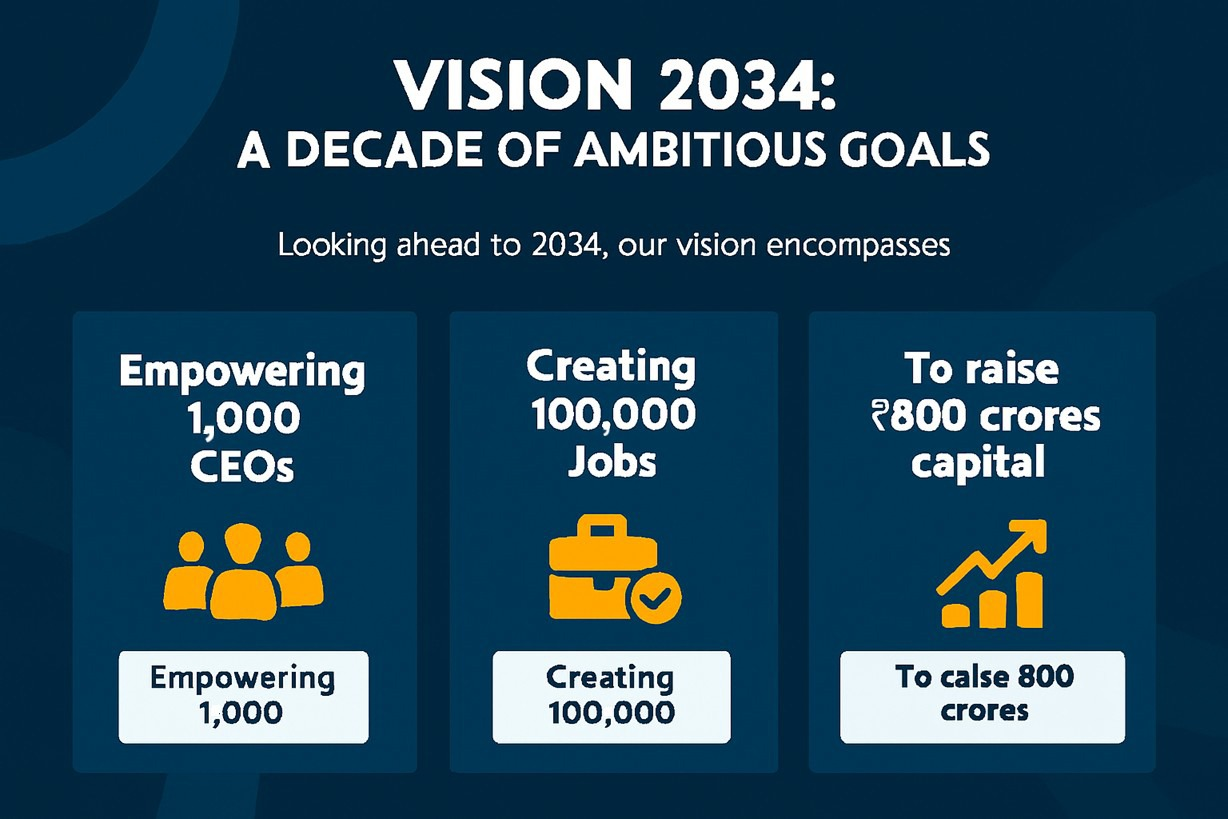
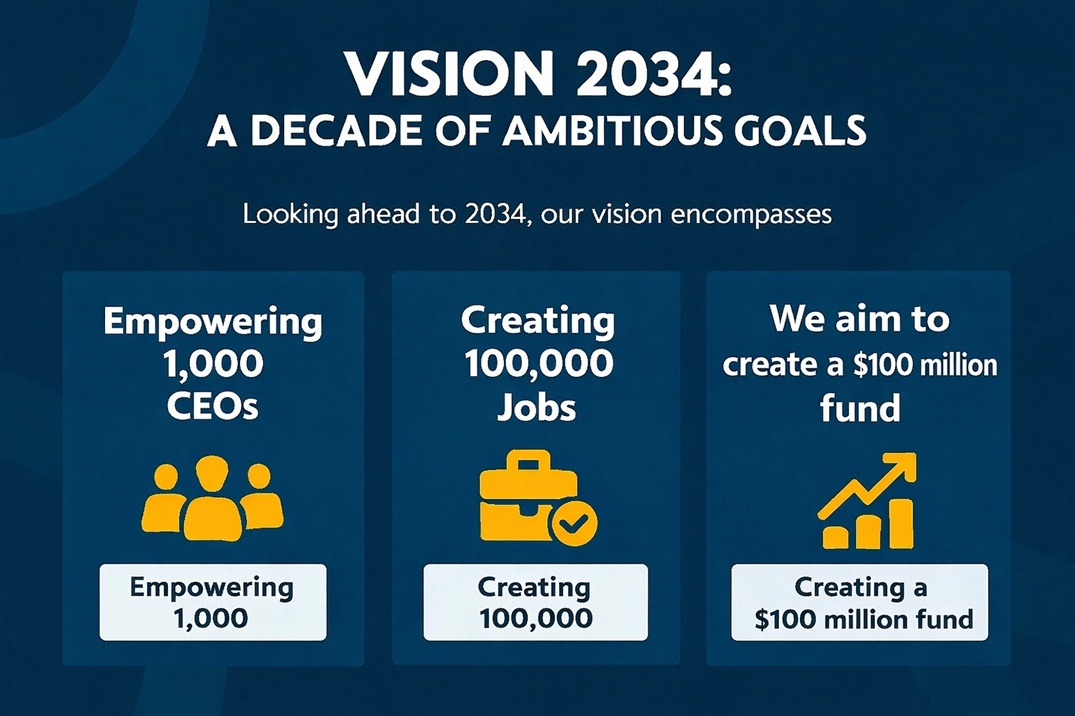
new

diff --git a/index.html b/index.html
@@ -1020,7 +1020,7 @@
             /* ← Changed from 170% */
             display: block;
             transition: transform 0.5s ease;
-            margin-top: 0 !important;
+            margin-top:50px !important;
             /* ← Removed negative margin */
             max-height: 400px;
             /* ← Add max-height for control */
@@ -4528,7 +4528,7 @@
 
             <div class="content-with-image">
                 <div class="community-images">
-                    <img src="images/community.jpg" alt="Community Involvement">
+                    <img src="images/community.jpeg" alt="Community Involvement">
                 </div>
 
                 <div class="community-text">
